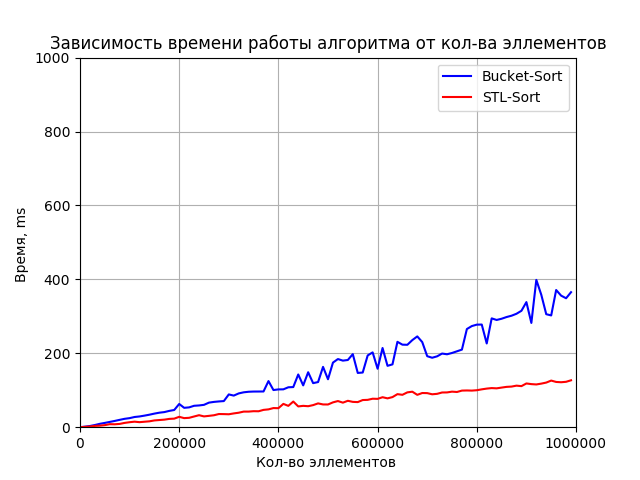
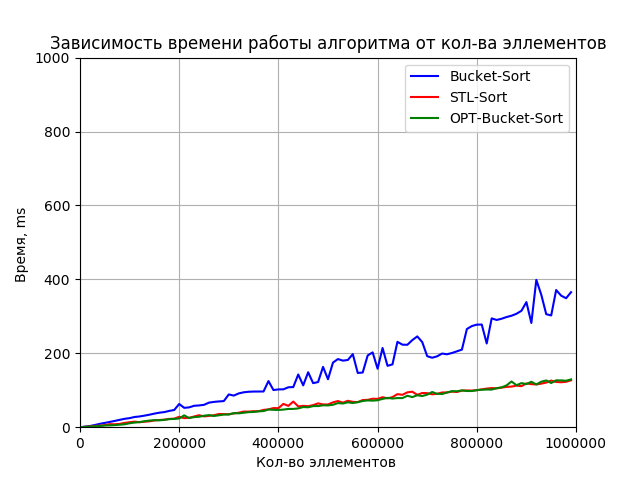
update info

diff --git a/scripts/graphics-sript.py b/scripts/graphics-sript.py
@@ -18,8 +18,9 @@ while(i <= upper_bound):
       
 # Набор значений по оси Y
 
-Y_B = []
-Y_Q = []
+Y_B  = []
+Y_Q  = []
+Y_OB = []
 
 f_b = open('log_bucket_sort.txt', 'r')
 for line in f_b:
@@ -32,12 +33,18 @@ for line in f_q:
 	Y_Q.append(float(line))
 
 f_q.close()
+
+f_bo = open('log_opt_bucket_sort.txt', 'r')
+for line in f_bo:
+	Y_OB.append(float(line))
+
+f_bo.close()
 # Строим диаграмму
 # Задаем исходные данные для каждой линии диаграммы, внешний вид линий и маркеров.
 # Функция plot() возвращает кортеж ссылок на объекты класса matplotlib.lines.Line2D
 
 
-line_b, line_q = plt.plot(X, Y_B, 'b-', X, Y_Q, 'r-' )
+line_b, line_q, line_ob = plt.plot(X, Y_B, 'b-', X, Y_Q, 'r-', X, Y_OB, 'g-'  )
 
 
 # Задаем интервалы значений по осям X и Y
@@ -55,7 +62,7 @@ plt.ylabel(u'Время, ms ')
 
 # Задаем исходные данные для легенды и ее размещение
 
-plt.legend((line_b, line_q), (u'Bucket-Sort', u'STL-Sort'), loc = 'best')
+plt.legend((line_b, line_q, line_ob), (u'Bucket-Sort', u'STL-Sort', u'OPT-Bucket-Sort'), loc = 'best')
 
 # Включаем сетку
 

diff --git a/scripts/perf-script.py b/scripts/perf-script.py
@@ -1,7 +1,7 @@
 from subprocess import Popen, PIPE
 
 def one_experiment(N):
-    exe = "../cmake-build-debug/sample/bucket_sort "
+    exe = "../cmake-build-debug/sample/opt_bucket_sort "
     comand = exe + str(N) +" " + str(1)
     proc = Popen(comand, shell=True, stdout=PIPE, stderr=PIPE)
     proc.wait()
@@ -24,7 +24,7 @@ def write_log(step):
     lower_bound = 1
     upper_bound = 1000000
     i = lower_bound
-    f = open('log_bucket_sort.txt', 'w')
+    f = open('log_opt_bucket_sort.txt', 'w')
     while(i <= upper_bound):
         avg_time = float(serial_experiment(i, 10))
         f.write(str(avg_time) + "\n")

diff --git a/include/sorts.h b/include/sorts.h
@@ -251,7 +251,17 @@ void bucket_sort(Iterator first, Iterator last){
 template< class Iterator >
 void opt_bucket_sort(Iterator first, Iterator last){
     const int n = distance(first, last);
-    const int counts_bucket = n / 20;
+    double scale;
+    if(n <= 1)
+        scale = 1;
+    else if(n > 2 && n <= 1000)
+        scale = 0.5;
+    else if(n > 1000 && n <= 100000)
+         scale = 0.25;
+    else
+        scale = 0.05;
+
+    const int counts_bucket = n * scale;//sqrt(n);
     vector<double> buckets(n);
     vector<int>    sizes (counts_bucket);
     vector<int>    shifts(counts_bucket);
